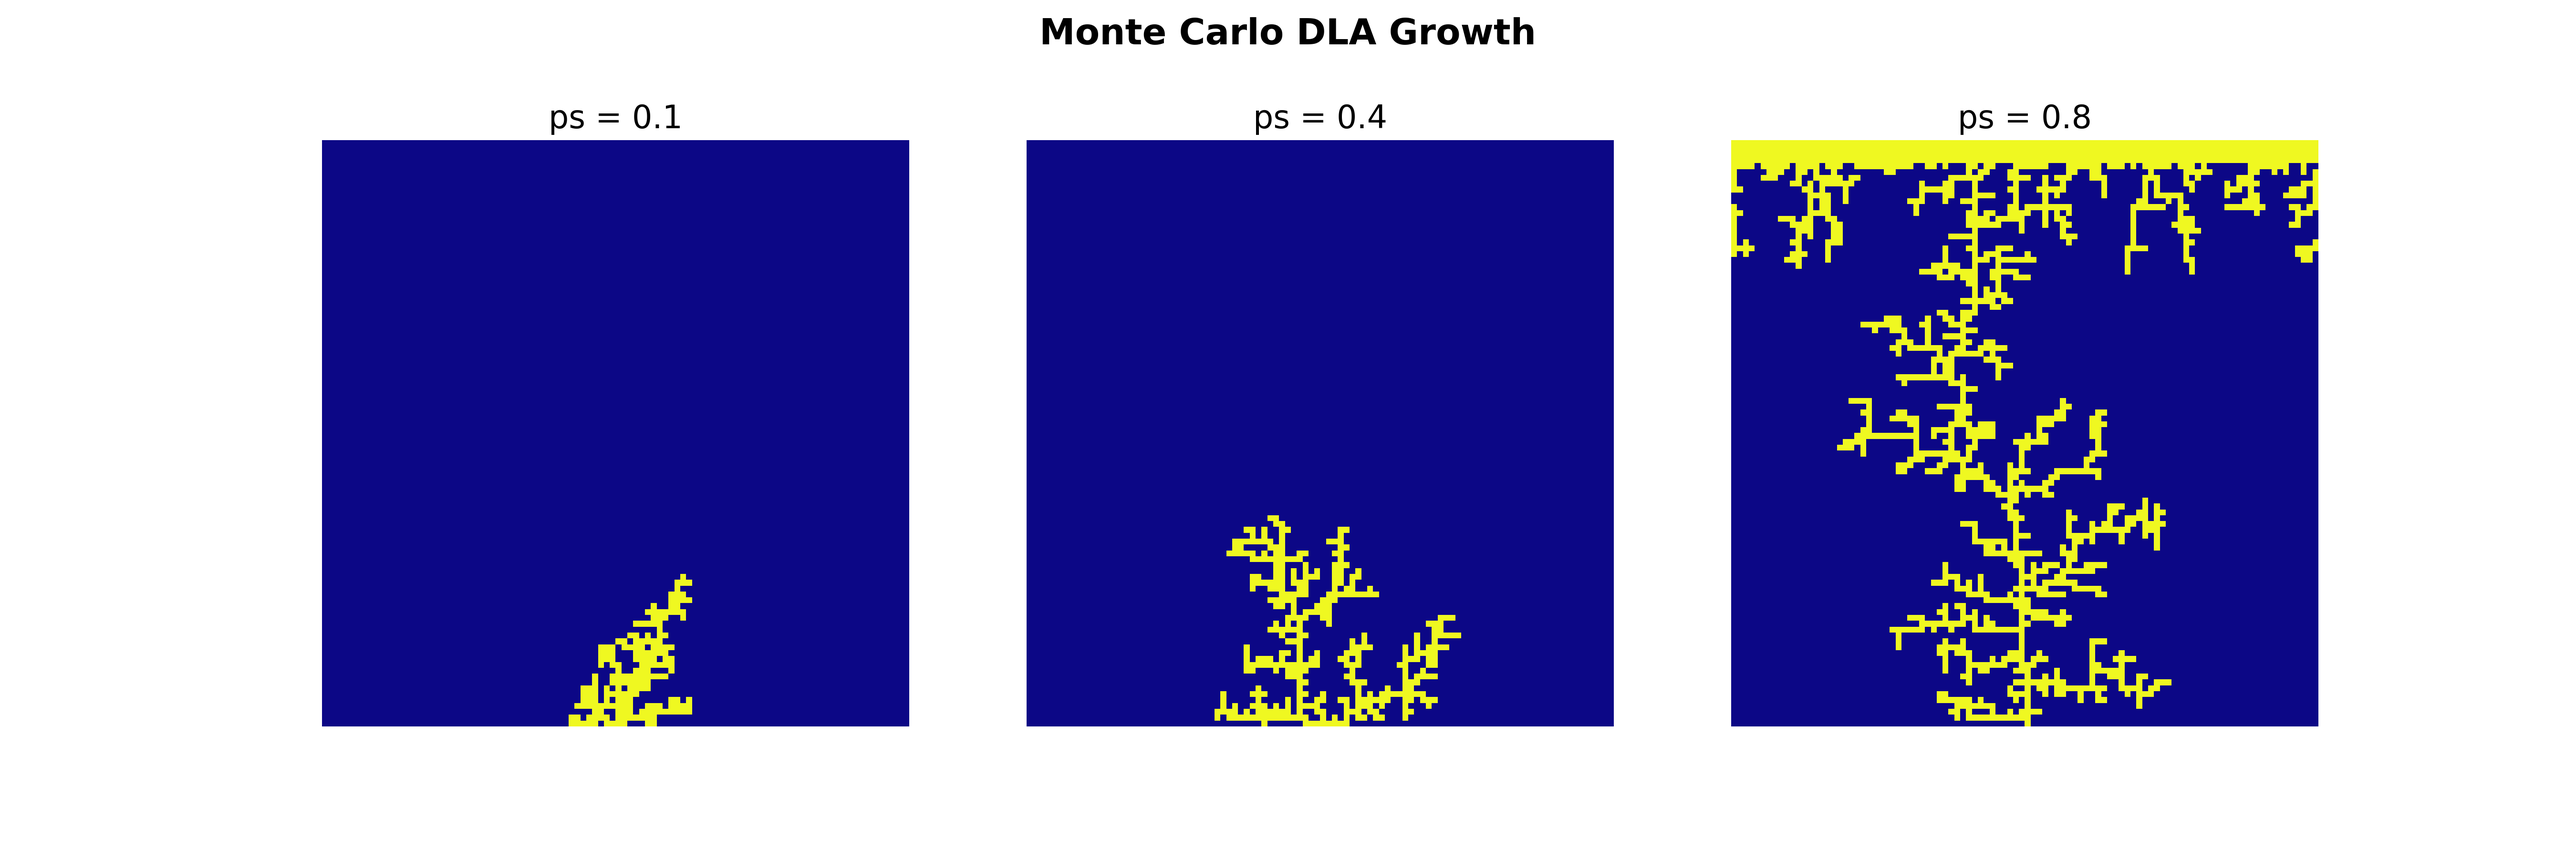
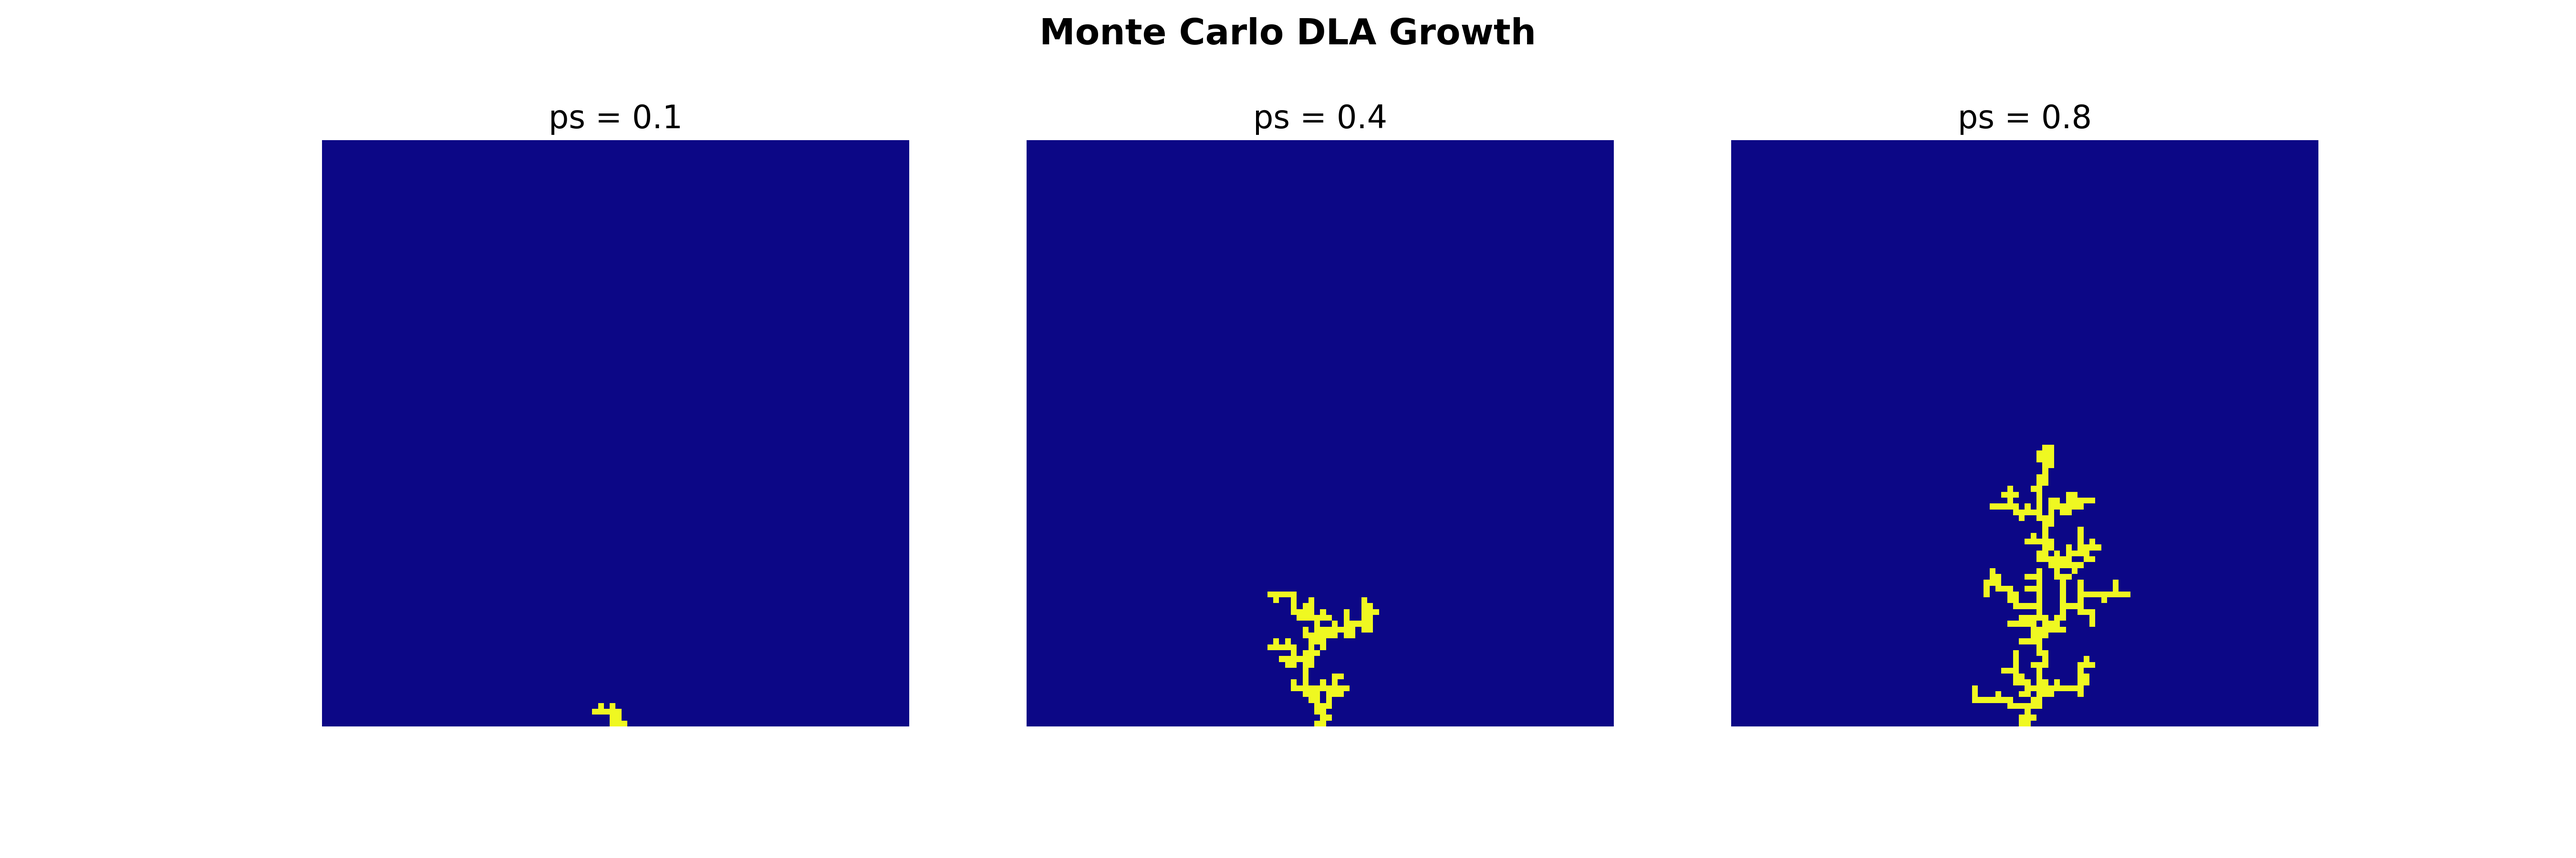
B and C fixed seemingly

Changed region(s): [[0.6533, 0.1556, 0.9022, 0.84], [0.4667, 0.5911, 0.56, 0.84], [0.2178, 0.6844, 0.28, 0.84]]

diff --git a/src/Question_C_new_funcs.py b/src/Question_C_new_funcs.py
@@ -18,32 +18,29 @@ def spawn_walker(M):
     return 0, np.random.randint(0, M)
 
 @njit
-def monte_carlo_dla(grid_size, steps):
+def monte_carlo_dla_ps(grid_size, steps, ps):
     np.random.seed(10)
     N, M = grid_size
     cluster = np.zeros((N, M), dtype=np.uint8)
-    cluster[N - 1, M // 2] = 1  # Initial seed at bottom center
+    cluster[N - 1, M // 2] = 1  # Initial seed bottom center
 
     moves = np.array([(1, 0), (-1, 0), (0, 1), (0, -1)])  
 
-    y, x = spawn_walker(M)  # Start with one walker
+    y, x = spawn_walker(M)  # one walker
 
     for _ in range(steps):
         move = moves[np.random.randint(0, 4)]  
         y += move[0]
         x = (x + move[1]) % M  # Periodic boundary in x
-        # % ensures that x stays within [0, M-1].
-        # if x goes beyond the right boundary (M), it wraps back to 0.
-        # If x goes below 0 (left boundary), it wraps to M-1.
 
-        # if walker reaches the top or bottom, respawn at top
         if y >= N or y < 0:
-            y, x = spawn_walker(M)  
+            y, x = spawn_walker(M)  # Respawn at top
+            continue  # Start moving new walker
+
+        # Check if walker sticks
+        if is_next_to_cluster(y, x, cluster) and np.random.rand() <= ps:
+            cluster[y, x] = 1  
+            y, x = spawn_walker(M)  # Spawn new walker
             continue  # Start moving the new walker
 
-        # Check if the walker sticks
-        if is_next_to_cluster(y, x, cluster):
-            cluster[y, x] = 1  # Walker sticks
-            y, x = spawn_walker(M)  # Spawn new walker
-            continue  
     return cluster
